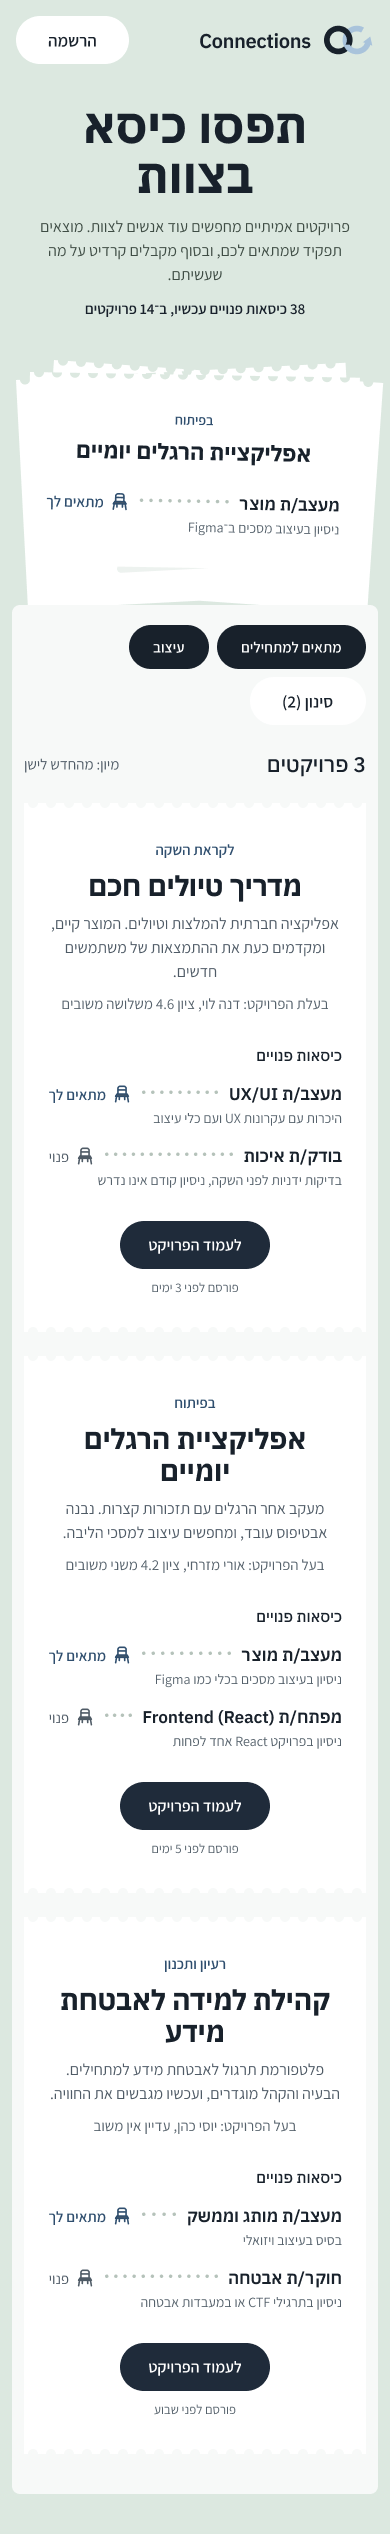
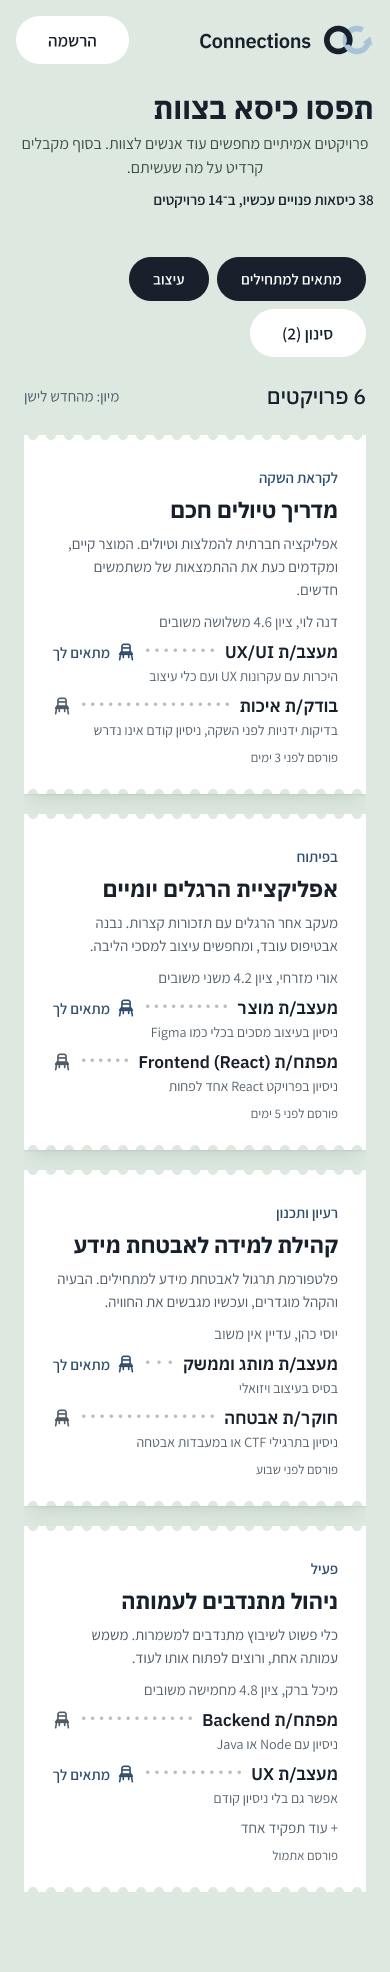
Discovery: compact grid layout with paper cards on sage
- Replace the landing-style hero (sheet stack) with a low header strip
- Results as a grid: 2 columns on desktop/tablet, 1 on mobile; compact
  perforated cards, whole card clickable, no button, no cover image
- White cards sit directly on the sage page color with a soft paper
  shadow (no border, it would cut the perforation)
- Rule update: soft shadow allowed only for paper on a tray
- Log decisions, update discovery spec, status, design-routing and hook;
  refresh screenshots and add before/after comparison

diff --git a/.claude/hooks/design-skill-reminder.py b/.claude/hooks/design-skill-reminder.py
@@ -16,7 +16,7 @@ REMINDER = (
     "שורה אחת בפורמט 'החלטה <- סקיל/כלל'. סדר עדיפויות: כללי המוצר, figma-use / "
     "figma-generate-*, נגישות (ui-ux-pro-max), ורק אז אסתטיקה (frontend-design, "
     "taste-skill). אם אין סקיל רלוונטי כתוב 'ללא סקיל - הנחה שלי' וסמן מוצע. "
-    "כיוון חזותי: IBM Plex Sans Hebrew לכותרות + Assistant לגוף (אושר). פלטה: מרווה ודיו (אושר 5.11); זהב נדחה, צבע נגיעה כחול ערפל (אושר 5.11); כיוון 'דף קרדיטים' (אושר 5.11): בלי תיקיות לפי תחום (התחומים יגדלו), בהדר ערימת דפי פרויקט, ניסוח קליל ולא 'AI'; תפקיד בעמוד פרויקט = כרטיס מקווקו עם חריצים; כל פרויקט דף נייר מנוקב ממורכז, תפקיד = שורת קרדיט עם נקודות מובילות וכיסא (רכיב RoleCredit); הסינון המקורי נשמר; בלי כרטיסי SaaS, צ'יפים עודפים ומחרוזות עם נקודה אמצעית; כלל: צבע הכפתור לא ממלא שטחים גדולים - להדר יש טוקן bg/hero; צבע הנגיעה לקישוט בלבד. אדום+זעפרן וטורקיז+פודרה נדחו; שם ומותג טרם הוכרעו - השתמש בטוקנים ולא בערכים קשיחים. הימנע מקרם+טרקוטה, כרטיסי SaaS זהים, גרדיאנטים וצללים. רספונסיביות (responsive-guard): כל מסך בשלושה פריימים (390/768/1280), Auto Layout עם FILL, מטרות לחיצה 44px, ובדיקה בצילום."
+    "כיוון חזותי: IBM Plex Sans Hebrew לכותרות + Assistant לגוף (אושר). פלטה: מרווה ודיו (אושר 5.11); זהב נדחה, צבע נגיעה כחול ערפל (אושר 5.11); כיוון 'דף קרדיטים' (אושר 5.11): בלי תיקיות לפי תחום (התחומים יגדלו), הגילוי הוא חיפוש ולא עמוד נחיתה: הדר נמוך, תוצאות ברשת (2 עמודות בשולחן עבודה ובטאבלט, 1 בטלפון), בלי תמונות cover, ניסוח קליל ולא 'AI'; תפקיד בעמוד פרויקט = כרטיס מקווקו עם חריצים; כל פרויקט דף נייר מנוקב קומפקטי ולחיץ, לבן ישירות על מרווה bg/hero עם צל נייר רך (לא מסגרת, לא מגש בהיר), תפקיד = שורת קרדיט עם נקודות מובילות וכיסא (רכיב RoleCredit); הסינון המקורי נשמר; בלי כרטיסי SaaS, צ'יפים עודפים ומחרוזות עם נקודה אמצעית; כלל: צבע הכפתור לא ממלא שטחים גדולים - להדר יש טוקן bg/hero; צבע הנגיעה לקישוט בלבד. אדום+זעפרן וטורקיז+פודרה נדחו; שם ומותג טרם הוכרעו - השתמש בטוקנים ולא בערכים קשיחים. הימנע מקרם+טרקוטה, כרטיסי SaaS זהים וגרדיאנטים; צל רך רק לדף נייר על מגש. רספונסיביות (responsive-guard): כל מסך בשלושה פריימים (390/768/1280), Auto Layout עם FILL, מטרות לחיצה 44px, ובדיקה בצילום."
 )
 
 

diff --git a/docs/decisions.he.md b/docs/decisions.he.md
@@ -30,6 +30,13 @@
 - ב־5 בנובמבר 2026 אושר כיוון חזותי ראשוני (הוחלף באותו יום, ראו הבא): מינימליסטי ורגוע, גופן Heebo (עברית ואנגלית), צבע ראשי אחד (אינדיגו) וטוקנים ניטרליים להחלפה. נבנו ב־[Figma](https://www.figma.com/design/rCoeh2OtToUZoFFxy5WPqi) (דף ״01 Foundations״): 4 אוספי משתנים (Primitives, Color, Spacing, Radius; 59 משתנים) ו־8 סגנונות טקסט. כל זוגות הטקסט והרקע עוברים ניגודיות 4.5:1 לפחות (הנמוך ביותר 4.76). הבחירה בצבע ובגופן היא `מוצע` ונבדקה ויזואלית בלבד, לא מול משתמשים. פתוח: שם מוצר ומותג סופי; מצב כהה לא נבנה; לא נבדק אם Figma תומך בכיוון RTL ב־Auto Layout, ובינתיים סדר רכיבים בשורה נקבע ידנית מימין לשמאל.
 - ב־5 בנובמבר 2026 אושר שעיון ברשימת הפרויקטים ובעמוד פרויקט פתוח לאורח בלי הרשמה; הגשת מועמדות דורשת חשבון (ולפי הכללים הקיימים: בסיס פרופיל וקורות חיים). המשתמש אישר את ההצעה כפי שהוצגה. ראו [אפיון הגילוי](./screens/discovery.he.md). פתוח: הגשה חוזרת אחרי פנייה שנמשכה או ״לא המשיכו״.
 - **5 בנובמבר 2026 — מבנה טופס ההגשה (״כן״):** הטופס הוא עמוד אחד, בלי שלבים. לפני השליחה מוצג מסך אישור קצר עם התפקיד, שם בעל הפרויקט ושם הקובץ, ומשפט שמסביר שקובץ שהורד נשאר אצל המקבל. פרטי שאר הטופס `מוצעים`, ב־[application-form](./screens/application-form.he.md). ראו גם [האפיון](./product-brief.he.md#גילוי-פרויקטים-ותפקידים-פתוחים).
+- **5 בנובמבר 2026 — הגילוי בפריסת רשת (״כן לאמץ״):**
+  - **רקע:** הוצגה סקיצה בדף נפרד, אחרי משוב שהעמוד נראה כמו עמוד נחיתה.
+  - **מה החליף:** ערימת הדפים בראש העמוד ואת הסידור הממורכז, שתי החלטות שאושרו מוקדם יותר באותו יום. ראש העמוד הוא עכשיו פס נמוך. התוצאות ברשת, שתי עמודות בשולחן עבודה ובטאבלט ועמודה אחת בטלפון. כל דף מנוקב קומפקטי ולחיץ, בלי כפתור.
+  - **עיצוב הכרטיס:** המשתמש ביקש לכרטיס רקע נבדל ומסגרת או צל. הדף הלבן מונח עכשיו ישירות על המרווה של העמוד (`bg/hero`), עם צל נייר רך. בחרנו צל ולא מסגרת, כי מסגרת חוצה את הניקוב (`מוצע`, הוחל). מגש בצבע `bg/subtle` נוסה קודם, ולפי המשתמש עדיין נראה ״ממש לבן״.
+  - **כלל שהשתנה:** הכלל הקודם ״בלי צללים״ מוחלף בכלל: צל רך מותר רק לדף נייר על מגש.
+  - **מה נשאר כמו שהיה:** אין תמונת cover, לפי כלל החשיפה של בעל הפרויקט. ״פנוי״ הוסר משורות התפקיד בגילוי.
+  - **פירוט:** ב־[discovery](./screens/discovery.he.md).
 - **5 בנובמבר 2026 — עיצוב טופס ההגשה, אושר (״מאשר״):** נבנה דף ״08 Apply״ ב־Figma. פירוט ב־[application-form](./screens/application-form.he.md#עיצוב-ב-figma-אושר-5112026). האישור כולל את ההשלמות שסומנו `מוצע` באפיון המסך, כי הן מוצגות בעיצוב: העלאת קובץ מתוך הטופס, השלמת פרופיל בתוך הטופס, מגבלה של 500 תווים לסיבת ההתעניינות, טיוטה במכשיר והמצבים. זו פרשנות שלנו ל״מאשר״.. כלל עברית שנלמד: בתוך משפט כותבים ״3 עד 6 שעות״, כי ״3–6״ מוצג הפוך.
 - **5 בנובמבר 2026 — הגשה חוזרת (״כן״):** אחרי משיכה מותר לפנות שוב לאותו תפקיד, והפנייה מסומנת ״פנה בעבר״. אחרי דחייה או ״לא המשיכו״ אסור לפנות שוב לאותו תפקיד, אבל מותר לפנות לתפקידים אחרים בפרויקט. אין תקופת המתנה ואין מונה ניסיונות. בכך נסגרה השאלה הפתוחה מ־5.11 על גישת אורח. ראו [האפיון](./product-brief.he.md#מעקב-אחרי-מועמדויות-מצד-המשתתף--החלטה-שאושרה).
 - ב־5 בנובמבר 2026 המשתמש דחה את הכיוון החזותי הקודם ("AI generated ופרווה מדי") וביקש עיצוב אלגנטי, מושך וחם יותר, בהשראת פלטפורמות דומות ובעזרת הסקילים. נסקרו Peerlist, Contra, Product Hunt ו־Dribbble (Polywork נחסם) לצורך השראה בלבד. כיוון חדש `מוצע`, **ממתין לאישור**: אדום עמוק (brand/600), זעפרן כשדה שטוח, אבן חמה כרקע; כותרות ב־Frank Ruhl Libre וגוף ב־Heebo; כפתורים וצ׳יפים בצורת גלולה; בלי קווי מתאר, צללים וגרדיאנטים; מוטיב ״זרקור״ (עיגול זעפרן) בהדר ובדיסק של כל פרויקט. כל זוגות הטקסט והרקע עוברים ניגודיות 4.5:1 לפחות (הנמוך 4.72). נמחקו ב־Figma הדפים הקודמים שבניתי. נשאר: אין תמונות או אווטארים (רק דיסק עם אות), לא נבנה טלפון.

diff --git a/docs/screens/discovery.he.md b/docs/screens/discovery.he.md
@@ -15,8 +15,13 @@
 - **פלטה (אושר):** מרווה, דיו וזהב.
 - **הדר (אושר):** ״מסלול קרדיט״ על רשת קנבס.
 - **כיוון ״דף קרדיטים״ — אושר 5.11.2026.** החליף את הכרטיסים בדף ״03 Discovery״ בשלושה רוחבים.
-  - **ראש העמוד** (אושר 5.11.2026): כותרת ״תפסו כיסא בצוות״ וערימת דפי פרויקט. התיקיות לפי תחום הוסרו, כי מספר התחומים יגדל.
-  - **פרויקט:** כל פרויקט הוא דף קרדיטים מנוקב. כל תפקיד הוא שורת קרדיט (רכיב `RoleCredit`): שם, נקודות מובילות, כיסא ו״פנוי״ או ״מתאים לך״.
+  - **ראש העמוד** (עודכן ואושר 5.11.2026): פס נמוך עם הכותרת ״תפסו כיסא בצוות״ בשורה אחת, משפט הסבר ומספר הכיסאות הפנויים. ערימת הדפים הוסרה, אחרי משוב שהעמוד נראה כמו עמוד נחיתה ולא כמו חיפוש. גם התיקיות לפי תחום הוסרו קודם, כי מספר התחומים יגדל.
+  - **תוצאות ברשת** (אושר 5.11.2026):
+    - **פריסה:** בשולחן עבודה שתי עמודות ליד פאנל הסינון. בטאבלט שתי עמודות, ובטלפון עמודה אחת. בגובה מסך ראשון של מחשב נייד רואים 4 פרויקטים.
+    - **רקע וצל:** הדפים הלבנים מונחים ישירות על צבע המרווה של העמוד (`bg/hero`), עם צל נייר רך. בחרנו צל ולא מסגרת, כי מסגרת חוצה את הניקוב. ניסיון קודם עם מגש בצבע `bg/subtle` נראה עדיין לבן מדי (משוב המשתמש).
+    - **תמונת cover:** אין. בעל הפרויקט בוחר אם לחשוף חומרים, והרבה פרויקטים בשלב רעיון לא יכולים לספק תמונה.
+  - **פרויקט:** כל פרויקט הוא דף קרדיטים מנוקב וקומפקטי, ובו שלב, שם, תיאור קצר, בעל הפרויקט, שורות התפקידים, ״+ עוד תפקיד״ כשיש יותר, ומועד הפרסום. אין כפתור, וכל הכרטיס לחיץ.
+  - **תפקיד:** כל תפקיד הוא שורת קרדיט (רכיב `RoleCredit`, בגודל Small): שם, נקודות מובילות, כיסא ו״מתאים לך״ כשרלוונטי. ״פנוי״ הוסר מהגילוי, כי כל תפקיד שמוצג בו פנוי.
   - **סינון:** כמו קודם, פאנל צדדי בדסקטופ ושורת סינון בטאבלט ובטלפון.
   - **`מוצע`:**
     - בטלפון התווית מקוצרת ל״מתאים לך״.

diff --git a/docs/status.he.md b/docs/status.he.md
@@ -27,6 +27,8 @@
 - **Figma נוקה (5.11.2026):** מצב אחד בלבד, פרימיטיביים מסודרים, בלי באנרים ובלי דפי חקר. פירוט ביומן ההחלטות.
 - **פתוח:** צבעי הלוגו. בהדר הוא עבר לטוקנים זמנית.
 
+**הגילוי בפריסת רשת — אושר 5.11.2026:** הוחל בדף ״03 Discovery״ במקום ערימת הדפים והסידור הממורכז. הכרטיסים הם דפים לבנים על המרווה של העמוד, עם צל נייר רך (`מוצע`, הוחל). ההשוואה בין לפני ואחרי היא [screens/sketch-grid-compare.png](screens/sketch-grid-compare.png).
+
 **פתוח, לא חוסם:** מה עוד חסר בעיצוב (תמונות/אנשים אמיתיים?); הורדת `responsive-craft`; שם המוצר (הלוגו אושר, השם זמני); מצב כהה.
 
 ## ממצאי `consistency-check` (4.11.2026)
